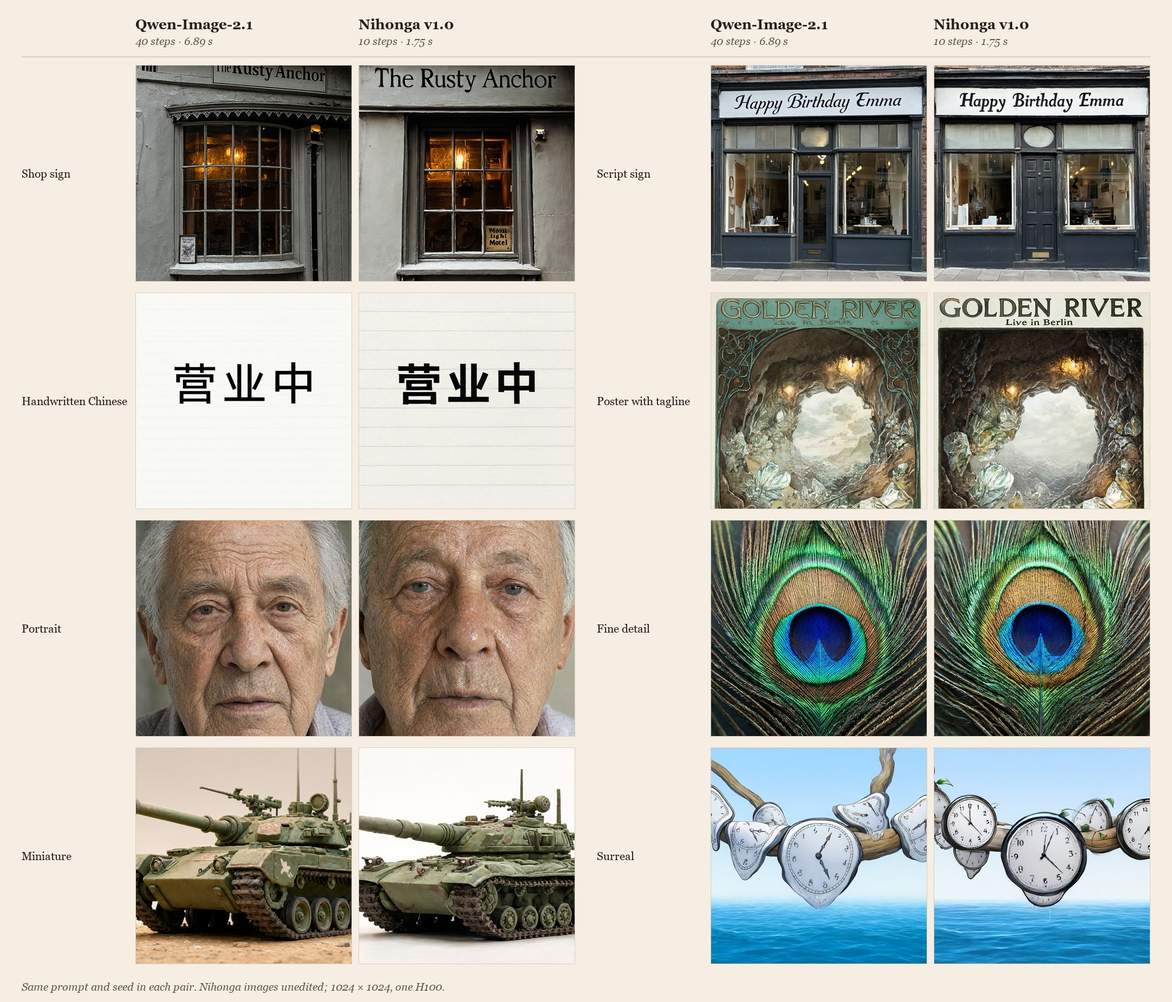
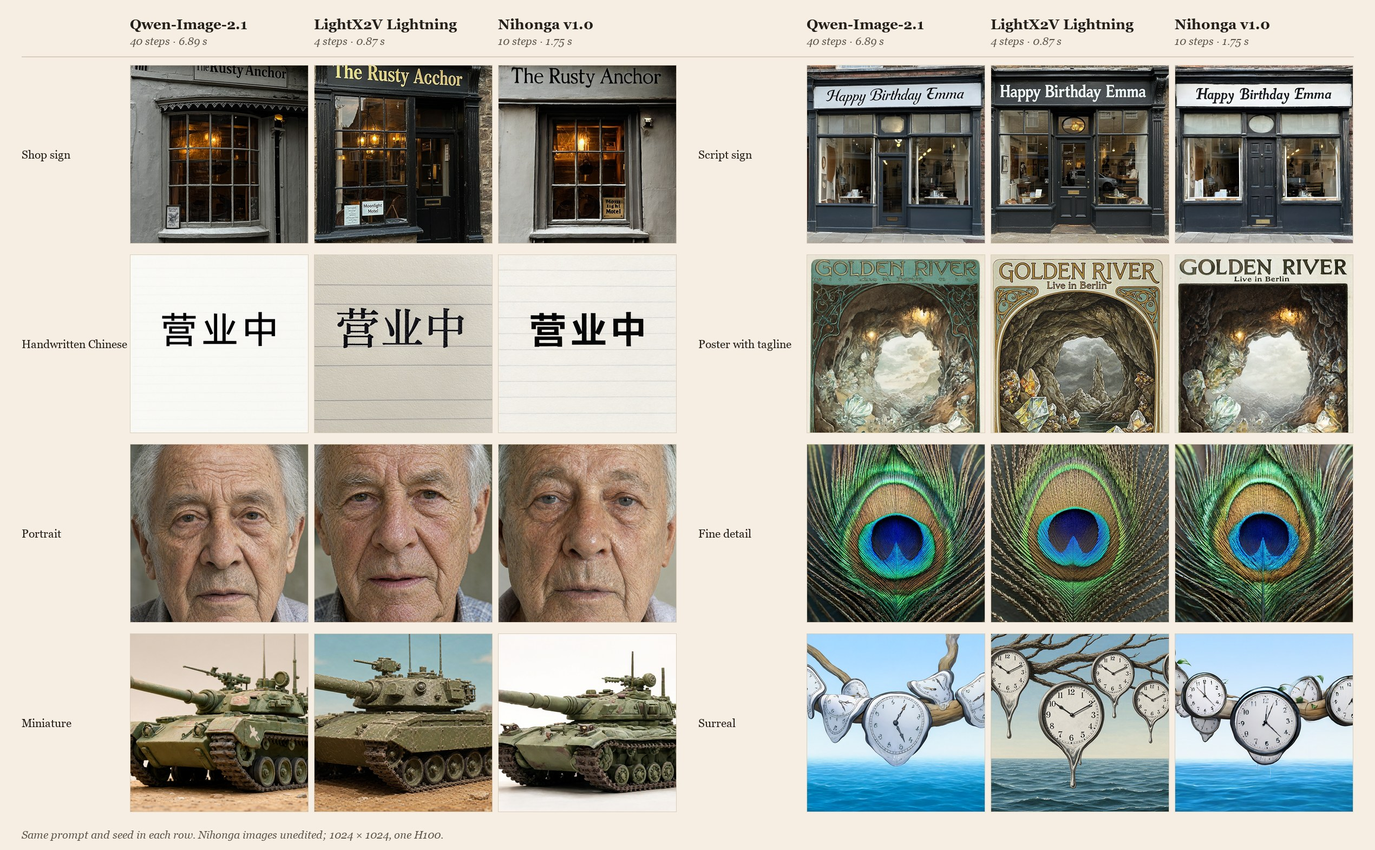
Nihonga: final results figure adds the LightX2V Lightning LoRA column

diff --git a/nihonga/index.html b/nihonga/index.html
@@ -122,8 +122,8 @@
       </figure>
 
       <figure class="plate">
-        <a href="images/final-results.jpg"><img loading="lazy" src="images/final-results.jpg" width="2164" height="1850" alt="Eight prompts side by side, Qwen-Image-2.1 at 40 steps and Nihonga v1.0 at 10 steps: The Rusty Anchor shop sign, a Happy Birthday Emma script sign, handwritten Chinese, a Golden River poster with the tagline Live in Berlin, a portrait, a peacock feather, a model tank and melting clocks."></a>
-        <figcaption>Qwen-Image-2.1 at 40 steps (6.89 s) and Nihonga v1.0 at 10 steps (1.75 s), same prompt and seed in each pair.</figcaption>
+        <a href="images/final-results.jpg"><img loading="lazy" src="images/final-results.jpg" width="2540" height="1570" alt="Eight prompts, each as Qwen-Image-2.1 at 40 steps, the LightX2V Lightning LoRA at 4 steps (which writes The Rusty Acchor) and Nihonga v1.0 at 10 steps: The Rusty Anchor shop sign, a Happy Birthday Emma script sign, handwritten Chinese, a Golden River poster with the tagline Live in Berlin, a portrait, a peacock feather, a model tank and melting clocks."></a>
+        <figcaption>Qwen-Image-2.1 at 40 steps (6.89 s), the published LightX2V Lightning LoRA at 4 steps (0.87 s), and Nihonga v1.0 at 10 steps (1.75 s); same prompt and seed in each row. Note the Rusty Anchor sign.</figcaption>
       </figure>
 
       <h3>How to use it</h3>
